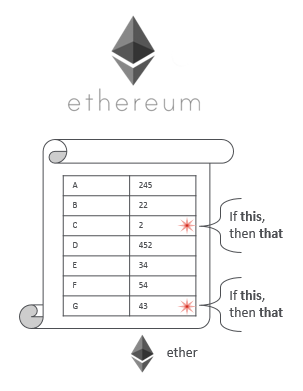
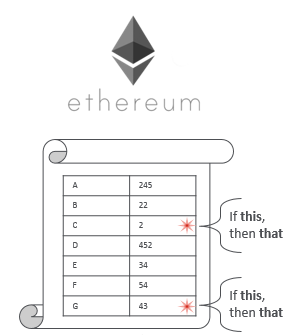
smaller changes to images

diff --git a/_posts/2016-08-19-Smart contracts.md b/_posts/2016-08-19-Smart contracts.md
@@ -74,7 +74,7 @@ When entering into a normal contract, several factors play an important role. Th
 
 Secondly, the terms and conditions that are laid out in a contract are constrained by a large body of existing law. This means that you can't be sure how the contract will play out by just looking at the writing in the agreement. There are laws that prohibit you from paying with your firstborn, even if you agree to this by signing a contract. Therefore, it is important to understand how this legal context plays in.
 
-![Firstborn]({{ site.url }}/assets/images/Firstborn.png)
+![Firstborn]({{ site.url }}/assets/images/Firstborn.png){:style="width:60%; margin: 0 20%"}
 
 ---
 
